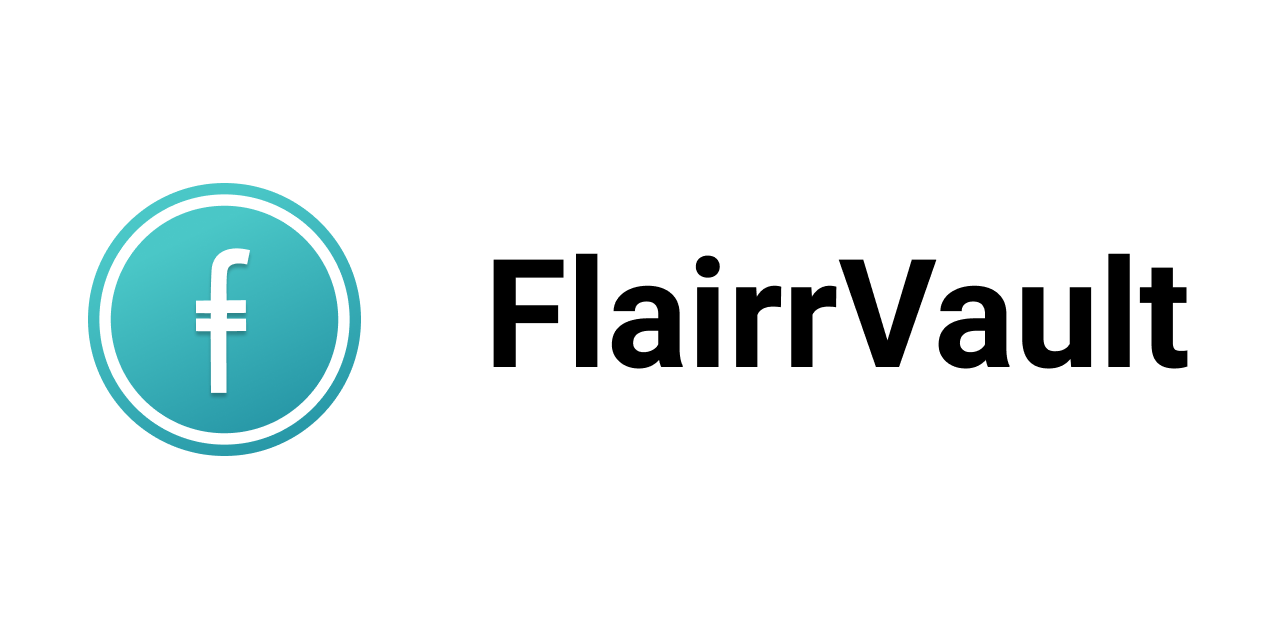
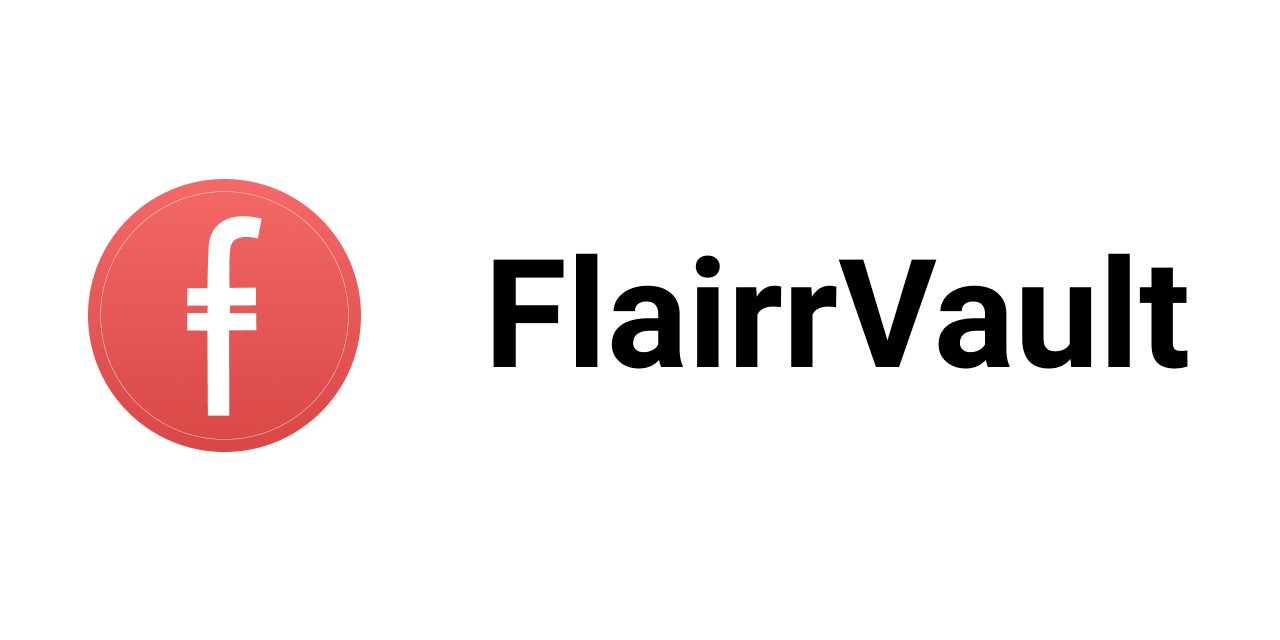
red/black design

Changed region(s): [[0.0625, 0.2812, 0.2812, 0.7188]]

diff --git a/src/less/components/nav.less b/src/less/components/nav.less
@@ -113,17 +113,17 @@
 	position: relative;
 	overflow: hidden;
 
-	height: 100px;
-	@media (min-width: 550px) {
-		height: 7vw;
-		min-height: 100px;
+	height: 155px;
+	@media (min-width: 640px) {
+		height: 11vw;
+		min-height: 155px;
 	}
 
 	&.is-wallet {
-		background: #506279;
+		background: #ff4c4c;
 
 		> .logo {
-			filter: saturate(0.5) brightness(0.75);
+			// filter: saturate(0.5) brightness(0.75);
 		}
 
 		&::after {
@@ -132,7 +132,7 @@
 			width: calc(100% - 10px);
 			height: calc(100% - 10px);
 			display: block;
-			border: 1px dashed #ffffff;
+			//border: 1px dashed #ffffff;
 			margin: 4px;
 			border-radius: 10px;
 			pointer-events: none;
@@ -140,7 +140,7 @@
 	}
 
 	&.incoming-card {
-		background: rgba(0, 243, 255, 0.17);
+		background:linear-gradient(0deg, #fca591, #ff4c4c);
 
 		min-height: 125px;
 		height: 125px;
@@ -155,10 +155,10 @@
 		position: absolute;
 		width: 100%;
 		height: 100%;
-		background: linear-gradient(180deg, #2ba6ed, #61bca7)
-		// background-size: 170%;
-		// background-position: 29% 30%;
-		// background-repeat: no-repeat;
+		background: url('../../assets/img/nano-mark.svg');
+		background-size: 101%;
+		background-position: 50% 25%;
+		background-repeat: no-repeat;
 	}
 
 	> .card-contents {

diff --git a/src/less/components/button.less b/src/less/components/button.less
@@ -11,27 +11,27 @@
 .uk-button-primary {
     color: #fff;
     border-radius: @global-border-radius;
-    background: @global-primary-background;
+    background: radial-gradient(138% 236% at 44% -78%, #ffb6a6 0%, #ff4c4c 100%);
     box-shadow: 0 10px 20px 0 #4a90e240;
 }
 
 .uk-button-primary:focus, .uk-button-primary:hover,
 .form-icon-btn:focus, .form-icon-btn:hover {
-	color: #fff;
-	background: @global-link-hover-color;
+	color: black;
+    background: radial-gradient(138% 236% at 44% -78%, #ffb6a6 0%, #ff4c4c 100%);
 }
 
 .uk-button-secondary, .uk-button-default {
-    color: @global-primary-background;
+    color: white;
     border: 1px solid @global-secondary-background;
     border-radius: @global-border-radius;
-    background: transparent;
+    background: radial-gradient(138% 236% at 44% -78%, #ffb6a6 0%, #ff4c4c 100%);
 }
 
 .uk-button-secondary:focus, .uk-button-secondary:hover,
 .uk-button-default:focus, .uk-button-default:hover {
-	background: @global-secondary-background;
-    color: @global-link-hover-color;
+    background: radial-gradient(138% 236% at 44% -78%, #ffb6a6 0%, #ff4c4c 100%);
+	color: black;
 }
 
 .uk-button {

diff --git a/src/less/components/variables.less b/src/less/components/variables.less
@@ -44,8 +44,8 @@
 @global-emphasis-color:                         #358d99;
 @global-muted-color:                            #999;
 
-@global-link-color:                             #2cbbbb;
-@global-link-hover-color:                       #158989;
+@global-link-color:                             #358d99;
+@global-link-hover-color:                       #ff5b37;
 
 @global-inverse-color:                          #fff;
 
@@ -53,10 +53,10 @@
 // Backgrounds
 //
 
-@global-background:                             #f3ffff;
+@global-background:                             #fff5f2;
 
 @global-muted-background:                       #e0ebfa;
-@global-primary-background:                     #2cbbbb;
+@global-primary-background:                     #ff8b70;
 @global-secondary-background:                   #dce9f9;
 @global-secondary-background-alt:				#222;
 

diff --git a/src/index.html b/src/index.html
@@ -28,7 +28,7 @@
 
   <link rel="apple-touch-icon" sizes="180x180" href="assets/favicon/Apple touch Icon.png">
   <link rel="icon" type="image/png" sizes="32x32" href="assets/favicon/32_32.png">
-  <link rel="icon" type="image/png" sizes="16x16" href="assets/favicon/16_16-5.png">
+  <link rel="icon" type="image/png" sizes="16x16" href="assets/favicon/16-16.png">
   <link rel="manifest" href="assets/favicon/site.webmanifest">
   <link rel="mask-icon" href="assets/favicon/safari-pinned-tab 1.svg" color="#4a90e2">
   <link rel="shortcut icon" href="assets/favicon/48_48.ico">

diff --git a/src/assets/lib/base/uikit.css b/src/assets/lib/base/uikit.css
@@ -8,7 +8,7 @@
  * 2. Prevent adjustments of font size after orientation changes in iOS.
  * 3. Style
  */
-html {
+ html {
   /* 1 */
   font-family: -apple-system, BlinkMacSystemFont, "Segoe UI", Roboto, "Helvetica Neue", Arial, "Noto Sans", sans-serif, "Apple Color Emoji", "Segoe UI Emoji", "Segoe UI Symbol", "Noto Color Emoji";
   font-size: 16px;
@@ -7568,7 +7568,7 @@ iframe.uk-cover {
   background-color: #f8f8f8;
 }
 .uk-background-primary {
-  background-color: #1e87f0;
+  background-color: #f46868;
 }
 .uk-background-secondary {
   background-color: #222;

diff --git a/src/app/welcome/welcome.component.css b/src/app/welcome/welcome.component.css
@@ -1,6 +1,6 @@
 .uk-button-large {
     border-radius: 50px;
-    background-color: #40988d;
+    background: radial-gradient(138% 236% at 44% -78%,#ffb6a6 0%, #ff4c4c 100%);
     line-height: 1;
     letter-spacing: 0.5px;
     padding-top: 20px;
@@ -9,5 +9,5 @@
 }
 
 .uk-button-large:hover {
-    background-color: #008e7d !important;
+    background: #ff8787 !important;
 }

diff --git a/src/assets/lib/base/uikit.min.css b/src/assets/lib/base/uikit.min.css
@@ -6136,7 +6136,7 @@ iframe.uk-cover {
 }
 
 .uk-background-primary {
-  background-color: #1e87f0
+  background-color: #f46868
 }
 
 .uk-background-secondary {
